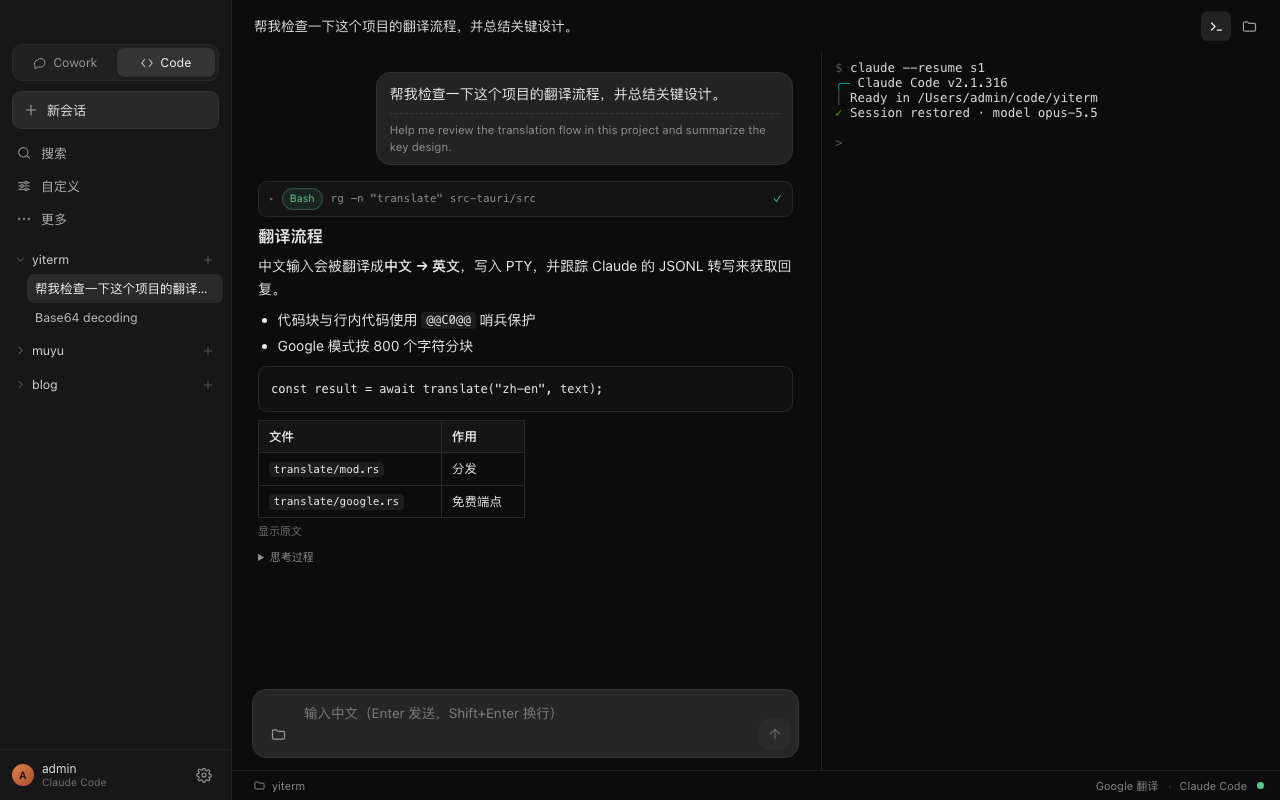
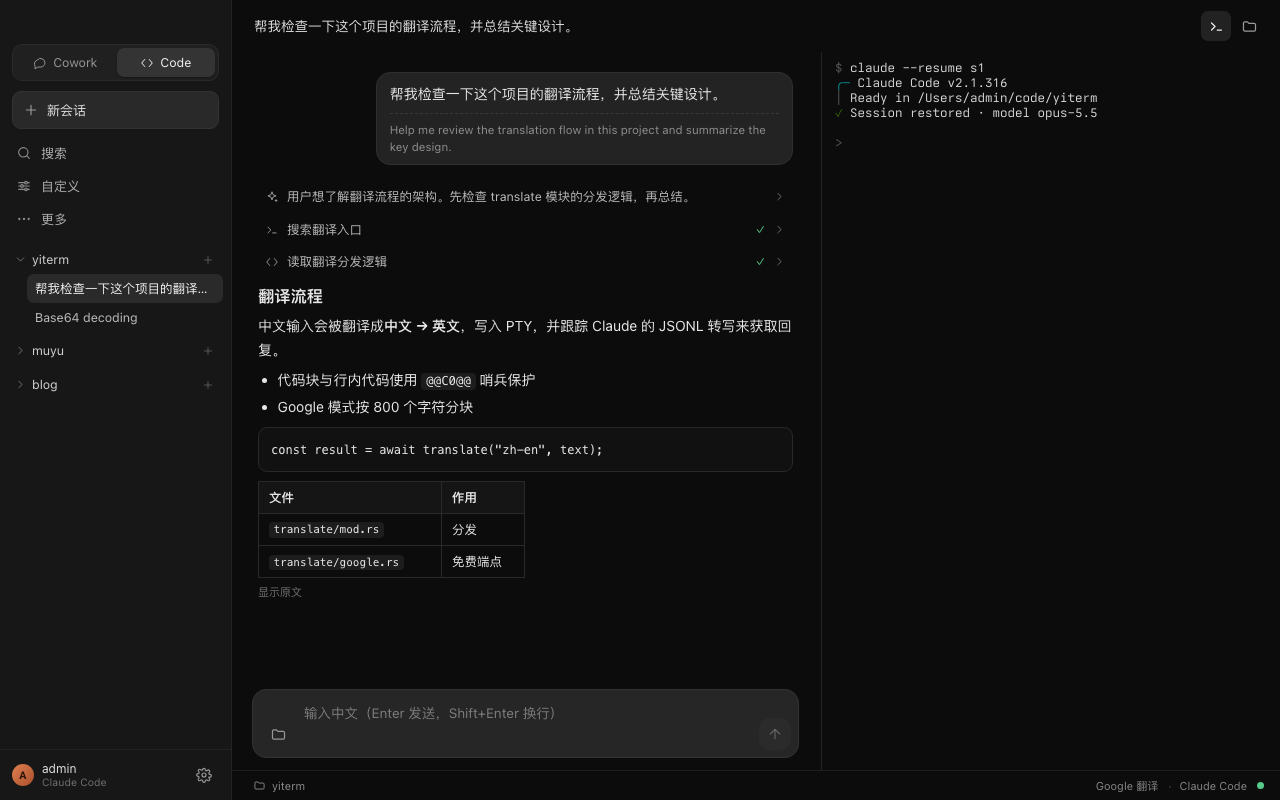
feat(chat): give every agent step and thinking its own line
Extract a human label from tool_use descriptions, render one collapsible line per step with the command and output on expand, and move thinking into its own collapsible line above the translated answer. Refreshes the README preview too.

Changed region(s): [[0.1875, 0.2188, 0.625, 0.75], [0.6562, 0.0625, 0.8438, 0.1562], [0.4375, 0.5312, 0.4688, 0.5938]]

diff --git a/src/components/MessageBubble.tsx b/src/components/MessageBubble.tsx
@@ -1,6 +1,8 @@
 import { useState } from 'react';
 import type { Msg } from '../stores/chat';
+import { oneLine } from '../format';
 import Markdown from './Markdown';
+import { ChevronIcon, CodeIcon, SparkleIcon, TerminalIcon } from './Icons';
 
 export default function MessageBubble({
   msg,
@@ -20,37 +22,61 @@ export default function MessageBubble({
   // A translation that equals the source (e.g. assistant already wrote Chinese)
   // has no useful original toggle.
   const hasDistinctOriginal = !isUser && !!msg.translation && msg.translation !== msg.original;
+  const thinking = msg.thinking?.trim() ?? '';
 
   return (
     <div className={`bubble-row ${isUser ? 'from-user' : 'from-ai'}`}>
       <div className={`bubble ${isUser ? 'user' : 'ai'}`}>
+        {thinking && (
+          <details className="thinking-line">
+            <summary>
+              <span className="step-icon"><SparkleIcon size={14} /></span>
+              <span className="step-label" title={thinking}>{oneLine(thinking, 96)}</span>
+              <ChevronIcon size={13} className="step-chevron" />
+            </summary>
+            <div className="step-body">
+              <div className="thinking-body">{thinking}</div>
+            </div>
+          </details>
+        )}
+
         {msg.toolCalls.length > 0 && (
-          <div className="tool-list">
-            {msg.toolCalls.map((t) => (
-              <details key={t.id} className={`tool-item ${t.isError ? 'is-error' : ''}`}>
-                <summary>
-                  <span className="chip">{t.name}</span>
-                  <span className="tool-detail" title={t.detail}>{t.detail || '—'}</span>
-                  {t.result !== undefined && (
-                    <span className="tool-status">{t.isError ? '失败' : '✓'}</span>
-                  )}
-                </summary>
-                {t.result !== undefined ? (
-                  <pre className="tool-output">{t.result || '（无输出）'}</pre>
-                ) : (
-                  <div className="tool-pending">等待输出…</div>
-                )}
-              </details>
-            ))}
+          <div className="step-list">
+            {msg.toolCalls.map((t) => {
+              const StepIcon = t.name === 'Bash' ? TerminalIcon : CodeIcon;
+              const label = t.label || t.detail || t.name;
+              return (
+                <details key={t.id} className={`step-item ${t.isError ? 'is-error' : ''}`}>
+                  <summary>
+                    <span className="step-icon"><StepIcon size={14} /></span>
+                    <span className="step-label" title={t.detail || t.name}>{label}</span>
+                    {t.result !== undefined && (
+                      <span className="step-status">{t.isError ? '失败' : '✓'}</span>
+                    )}
+                    <ChevronIcon size={13} className="step-chevron" />
+                  </summary>
+                  <div className="step-body">
+                    {t.detail && <pre className="step-command">{t.detail}</pre>}
+                    {t.result !== undefined ? (
+                      <pre className="step-output">{t.result || '（无输出）'}</pre>
+                    ) : (
+                      <div className="step-pending">等待输出…</div>
+                    )}
+                  </div>
+                </details>
+              );
+            })}
           </div>
         )}
+
         <div className="bubble-text">
           {primary.trim() ? (
             isUser ? primary : <Markdown>{primary}</Markdown>
-          ) : msg.toolCalls.length === 0 ? (
+          ) : msg.toolCalls.length === 0 && !thinking ? (
             <span className="bubble-placeholder">（思考中…）</span>
           ) : null}
         </div>
+
         {msg.working && <div className="bubble-working">翻译中…</div>}
         {msg.error && (
           <div className="bubble-error">
@@ -73,12 +99,6 @@ export default function MessageBubble({
           <div className="bubble-secondary">
             <Markdown>{msg.original}</Markdown>
           </div>
-        )}
-        {msg.thinking && (
-          <details className="thinking">
-            <summary>思考过程</summary>
-            <pre>{msg.thinking}</pre>
-          </details>
         )}
       </div>
     </div>

diff --git a/src/App.css b/src/App.css
@@ -632,86 +632,108 @@ button, input, textarea { font-family: inherit; }
 }
 .err-actions button:hover { border-color: #4a4a4a; color: #fff; }
 
-.tool-list {
+.step-list {
   display: flex;
   flex-direction: column;
-  gap: 5px;
+  gap: 1px;
   margin-bottom: 8px;
 }
 
-.tool-item {
-  background: #141414;
-  border: 1px solid #282828;
-  border-radius: 9px;
-  overflow: hidden;
-}
-.tool-item.is-error { border-color: rgba(224, 112, 112, 0.45); }
+.thinking-line { margin-bottom: 2px; }
 
-.tool-item summary {
+.step-item,
+.thinking-line {
+  background: transparent;
+  border: 0;
+  border-radius: 7px;
+}
+
+.step-item summary,
+.thinking-line summary {
   display: flex;
   align-items: center;
   gap: 8px;
-  padding: 6px 10px;
+  padding: 5px 7px;
   list-style: none;
   cursor: pointer;
-  font-size: 12px;
+  border-radius: 7px;
+  color: #b9b9b9;
+  font-size: 12.5px;
+  transition: background 0.12s ease, color 0.12s ease;
 }
-.tool-item summary::-webkit-details-marker { display: none; }
-.tool-item summary::before {
-  content: '▸';
-  color: var(--fg-faint);
-  font-size: 10px;
-  flex: none;
-}
-.tool-item[open] summary::before { content: '▾'; }
+.step-item summary::-webkit-details-marker,
+.thinking-line summary::-webkit-details-marker { display: none; }
+.step-item summary:hover,
+.thinking-line summary:hover { background: #1a1a1a; color: #e8e8e8; }
+.step-item[open] > summary,
+.thinking-line[open] > summary { color: #e0e0e0; }
 
-.tool-detail {
+.step-icon {
+  flex: none;
+  display: inline-flex;
+  color: #8f8f8f;
+}
+.thinking-line .step-icon { color: #9a9a9a; }
+.step-item.is-error .step-icon { color: var(--danger); }
+
+.step-label {
   flex: 1;
   min-width: 0;
   overflow: hidden;
   text-overflow: ellipsis;
   white-space: nowrap;
-  color: var(--fg-muted);
-  font-family: ui-monospace, SFMono-Regular, Menlo, monospace;
-  font-size: 11px;
 }
 
-.tool-status { flex: none; font-size: 10.5px; color: var(--ok); }
-.tool-item.is-error .tool-status { color: var(--danger); }
+.step-status { flex: none; font-size: 10.5px; color: var(--ok); }
+.step-item.is-error .step-status { color: var(--danger); }
 
-.tool-output {
-  margin: 0;
+.step-chevron {
+  flex: none;
+  color: #777777;
+  transition: transform 0.14s ease;
+}
+.step-item[open] > summary .step-chevron,
+.thinking-line[open] > summary .step-chevron { transform: rotate(90deg); }
+
+.step-body {
+  display: flex;
+  flex-direction: column;
+  gap: 6px;
+  margin: 2px 0 7px 25px;
   padding: 8px 10px;
-  max-height: 260px;
-  overflow-y: auto;
   background: #101010;
-  border-top: 1px solid #282828;
+  border: 1px solid #282828;
+  border-radius: 8px;
+}
+
+.step-command,
+.step-output {
+  margin: 0;
+  font-family: ui-monospace, 'Ioskeley Mono Term', SFMono-Regular, Menlo, monospace;
   font-size: 11.5px;
   line-height: 1.5;
   white-space: pre-wrap;
   word-break: break-word;
 }
-.tool-item.is-error .tool-output { color: #ffb3b3; }
-
-.tool-pending {
-  padding: 6px 10px;
-  border-top: 1px solid #282828;
-  color: var(--fg-faint);
-  font-size: 11px;
+.step-command { color: #a9b4c2; }
+.step-output {
+  max-height: 260px;
+  overflow-y: auto;
+  color: #c9c9c9;
 }
+.step-item.is-error .step-output { color: #ffb3b3; }
 
-.chip {
-  flex: none;
-  padding: 1px 7px;
-  border-radius: 999px;
-  background: rgba(87, 201, 139, 0.1);
-  border: 1px solid rgba(87, 201, 139, 0.28);
-  color: var(--ok);
-  font-size: 10.5px;
+.step-pending { color: var(--fg-faint); font-size: 11px; }
+
+.thinking-body {
+  white-space: pre-wrap;
+  font-size: 12px;
+  line-height: 1.6;
+  color: #a9a9a9;
 }
 
 .toggle-original {
-  padding: 5px 0 0;
+  padding: 6px 0 0;
   background: none;
   border: 0;
   color: var(--fg-faint);
@@ -719,19 +741,6 @@ button, input, textarea { font-family: inherit; }
   cursor: pointer;
 }
 .toggle-original:hover { color: #d8d8d8; }
-
-.thinking { margin-top: 6px; font-size: 12px; color: var(--fg-muted); }
-.thinking summary { cursor: pointer; font-size: 11px; }
-.thinking pre {
-  margin: 4px 0 0;
-  padding: 8px;
-  max-height: 200px;
-  overflow-y: auto;
-  background: #141414;
-  border-radius: 7px;
-  font-size: 11px;
-  white-space: pre-wrap;
-}
 
 /* ---------- composer ---------- */
 

diff --git a/src/ipc.ts b/src/ipc.ts
@@ -30,6 +30,8 @@ export type Direction = 'zh-en' | 'en-zh';
 export interface ToolCall {
   id: string;
   name: string;
+  /** Human-readable one-line label (falls back to detail for old caches). */
+  label?: string;
   detail: string;
 }
 

diff --git a/src-tauri/src/sessions/mod.rs b/src-tauri/src/sessions/mod.rs
@@ -34,7 +34,9 @@ pub enum Role {
 pub struct ToolCall {
     pub id: String,
     pub name: String,
-    /// Short human summary of the input (command, path, pattern, …).
+    /// Human-readable one-line label (the tool's `description` when present).
+    pub label: String,
+    /// Short technical summary of the input (command, path, pattern, …).
     pub detail: String,
 }
 
@@ -67,7 +69,39 @@ pub struct ChatMsg {
 }
 
 const TOOL_DETAIL_MAX: usize = 200;
+const TOOL_LABEL_MAX: usize = 80;
 const TOOL_RESULT_MAX: usize = 4000;
+
+fn truncate_label(s: &str, max: usize) -> String {
+    let one_line = s.replace('\n', " ");
+    let one_line = one_line.trim();
+    if one_line.chars().count() <= max {
+        one_line.to_string()
+    } else {
+        let mut out: String = one_line.chars().take(max).collect();
+        out.push('…');
+        out
+    }
+}
+
+/// One-line label for the step list: prefer the tool's human `description`,
+/// then the most meaningful input (command/path/pattern), then the tool name.
+fn summarize_tool_label(input: Option<&Value>, name: &str) -> String {
+    if let Some(obj) = input.and_then(Value::as_object) {
+        if let Some(desc) = obj.get("description").and_then(Value::as_str) {
+            let desc = desc.trim();
+            if !desc.is_empty() {
+                return truncate_label(desc, TOOL_LABEL_MAX);
+            }
+        }
+    }
+    let detail = summarize_tool_input(input);
+    if detail.trim().is_empty() {
+        name.to_string()
+    } else {
+        truncate_label(&detail, TOOL_LABEL_MAX)
+    }
+}
 
 fn truncate_chars(s: &str, max: usize) -> String {
     if s.chars().count() <= max {
@@ -271,8 +305,9 @@ pub fn parse_line(v: &Value) -> Vec<ChatMsg> {
                                 .to_string();
                             tool_calls.push(ToolCall {
                                 id,
-                                name,
+                                label: summarize_tool_label(block.get("input"), &name),
                                 detail: summarize_tool_input(block.get("input")),
+                                name,
                             });
                         }
                         _ => {}
@@ -441,6 +476,7 @@ mod tests {
         assert_eq!(m.tool_calls.len(), 1);
         assert_eq!(m.tool_calls[0].id, "call_9");
         assert_eq!(m.tool_calls[0].name, "Bash");
+        assert_eq!(m.tool_calls[0].label, "ls -la && echo hi");
         assert_eq!(m.tool_calls[0].detail, "ls -la && echo hi");
         assert!(m.done);
     }
@@ -453,6 +489,28 @@ mod tests {
         );
         assert!(summarize_tool_input(Some(&json!({ "weird_key": 42 }))).contains("weird_key"));
         assert_eq!(summarize_tool_input(None), "");
+    }
+
+    #[test]
+    fn tool_label_prefers_description() {
+        let v = json!({
+            "type": "assistant", "uuid": "a2",
+            "message": {
+                "id": "msg_2",
+                "content": [{
+                    "type": "tool_use", "id": "call_x", "name": "Bash",
+                    "input": {
+                        "command": "git status --short",
+                        "description": "检查仓库状态"
+                    }
+                }]
+            }
+        });
+        let msgs = parse_line(&v);
+        let t = &msgs[0].tool_calls[0];
+        assert_eq!(t.label, "检查仓库状态");
+        assert_eq!(t.detail, "git status --short");
+        assert_eq!(summarize_tool_label(None, "Bash"), "Bash");
     }
 
     #[test]

diff --git a/README.md b/README.md
@@ -35,9 +35,9 @@ Claude Code is a great coding agent, but it works in English and its conversatio
   - Fenced code and inline code are protected with sentinels so they survive translation
 - **Real terminal**, powered by `portable-pty` and xterm.js, with backlog replay on reattach
 - **Session mirror** from Claude Code's JSONL transcript
-  - assistant text and thinking
-  - tool calls with compact input summaries
-  - tool results, errors, and collapsible output
+  - one collapsible line per agent step, labelled with the tool's description
+  - thinking on its own collapsible line
+  - tool commands, results, and errors revealed on expand
 - **GitHub-flavoured Markdown**: tables, code blocks, lists; links open in the system browser
 - **Project-grouped sessions** with search and per-project “new session”
 - **Two layouts**: Code (chat + terminal) and Cowork (chat only)
